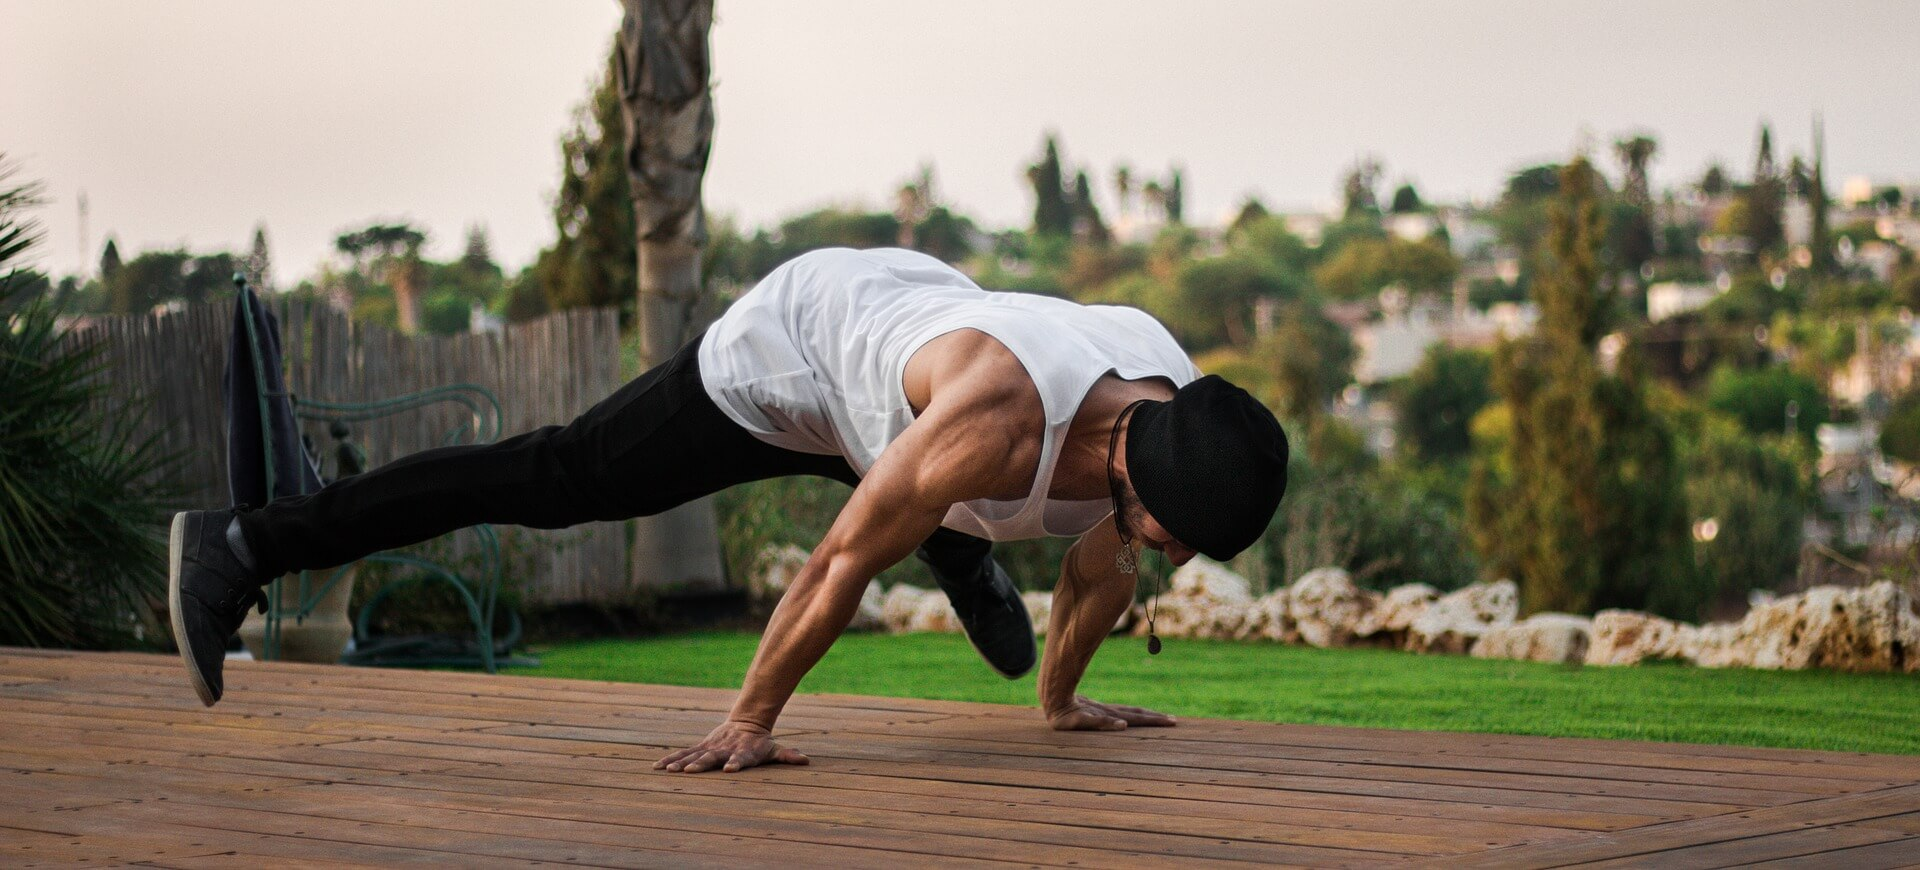
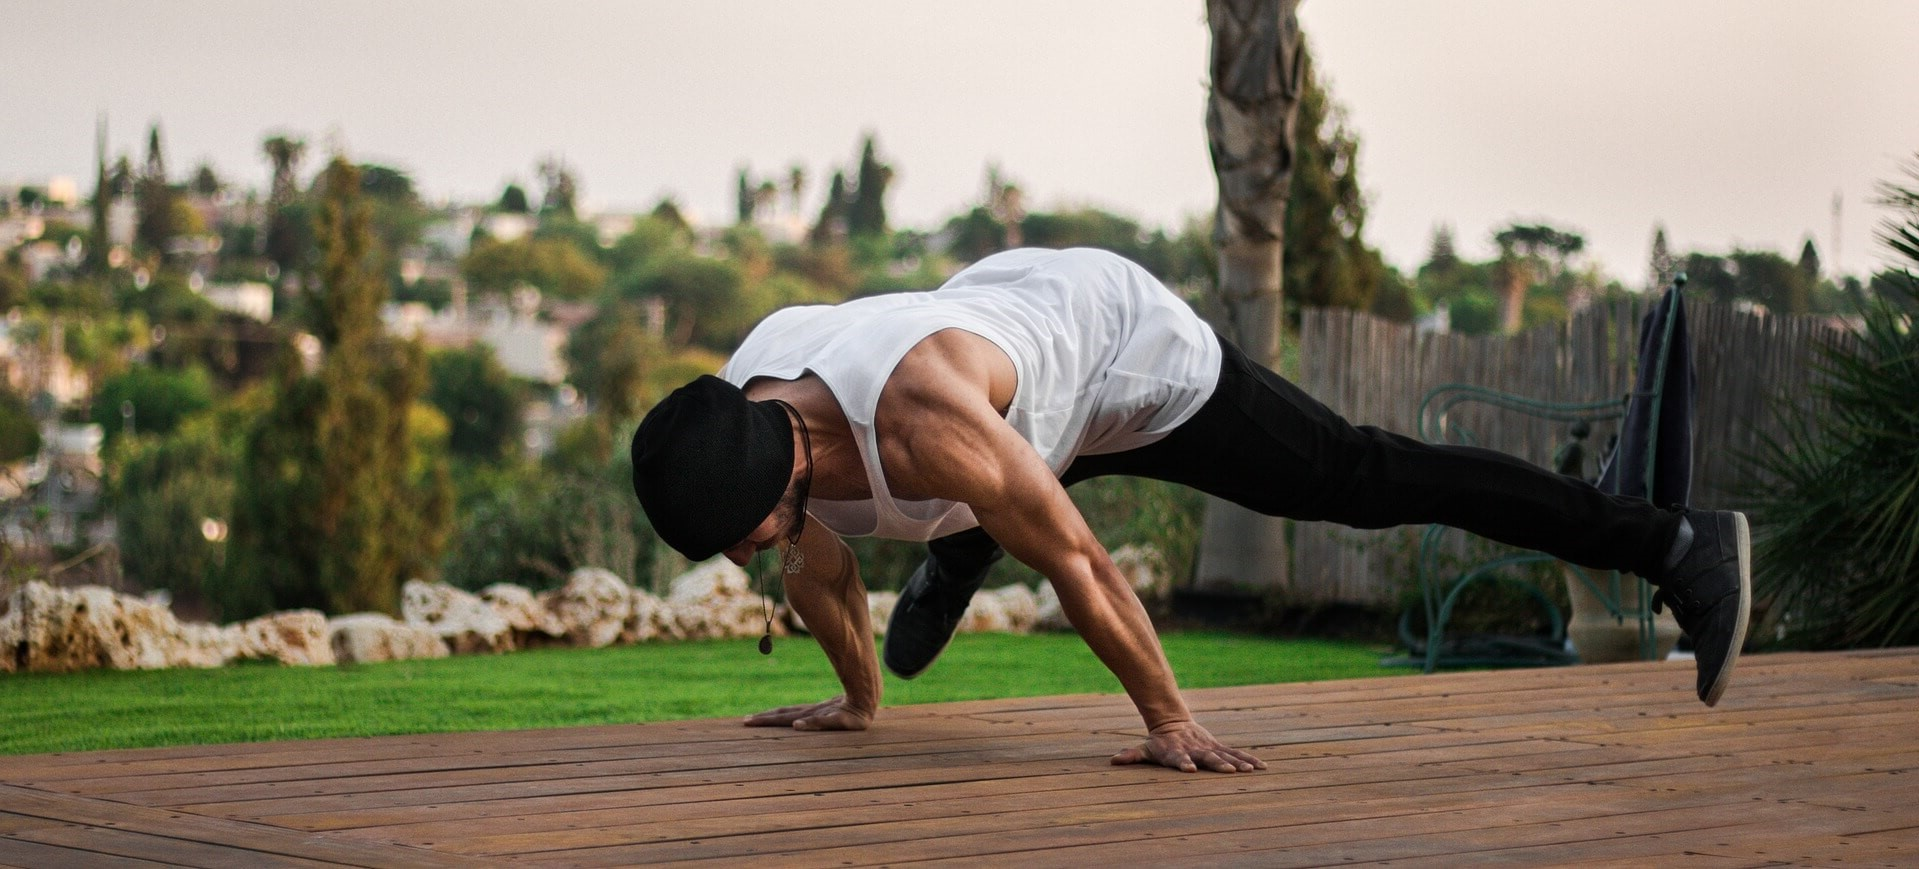
cambios en home

diff --git a/resources/css/micss.css b/resources/css/micss.css
@@ -1,0 +1,13 @@
+
+
+/*Para el home*/
+@media screen and (max-width: 480px) {
+    .home-background {
+        background-image: url("{{asset('img/home/street-workout-ge66ad7c91_1920.jpg')}}");
+    }
+}
+@media screen and (min-width: 480px) {
+    .home-background {
+        background-image: url('{{asset('img/home/street-workout-2628904_1920.jpg')}}');
+    }
+}

diff --git a/public/css/app.css b/public/css/app.css
@@ -1540,20 +1540,14 @@ select {
 .pt-8 {
   padding-top: 2rem;
 }
-.pb-5 {
-  padding-bottom: 1.25rem;
-}
-.pb-40 {
-  padding-bottom: 10rem;
+.pb-48 {
+  padding-bottom: 12rem;
 }
 .pt-20 {
   padding-top: 5rem;
 }
-.pb-44 {
-  padding-bottom: 11rem;
-}
-.pb-48 {
-  padding-bottom: 12rem;
+.pb-5 {
+  padding-bottom: 1.25rem;
 }
 .text-left {
   text-align: left;

diff --git a/resources/views/layouts/plantilla.blade.php b/resources/views/layouts/plantilla.blade.php
@@ -6,6 +6,18 @@
           content="width=device-width, user-scalable=no, initial-scale=1.0, maximum-scale=1.0, minimum-scale=1.0">
     <meta http-equiv="X-UA-Compatible" content="ie=edge">
     <link href="{{ asset('css/app.css') }}" rel="stylesheet">
+    <style>
+        @media screen and (max-width: 480px) {
+            .home-background {
+                background-image: url("{{asset('img/home/street-workout-ge66ad7c91_1920.jpg')}}");
+            }
+        }
+        @media screen and (min-width: 480px) {
+            .home-background {
+                background-image: url('{{asset('img/home/street-workout-2628904_1920.jpg')}}');
+            }
+        }
+    </style>
     <title>@yield('title')</title>
 </head>
 <body>

diff --git a/resources/views/home.blade.php b/resources/views/home.blade.php
@@ -3,7 +3,7 @@
     @extends('layouts.plantilla')
     @section('title', 'Home')
 
-        <section class="bg-cover" style=" background-image: url({{asset('img/home/street-workout-2628904_1920.jpg')}})">
+        <section class="bg-cover home-background">
             <div class="w-full md:grid-cols-2 lg:col-span-4 pb-48 pt-20" >
                 <div class="max-w-7xl mx-auto  px-4 sm:px-6 lg:py-36 lg:px-8 lg:flex lg:items-center lg:justify-between w-full md:grid-cols-2 lg:col-span-4">
                     <h2 class=" font-weight-bolder tracking-widest text-black sm:text-4xl">
